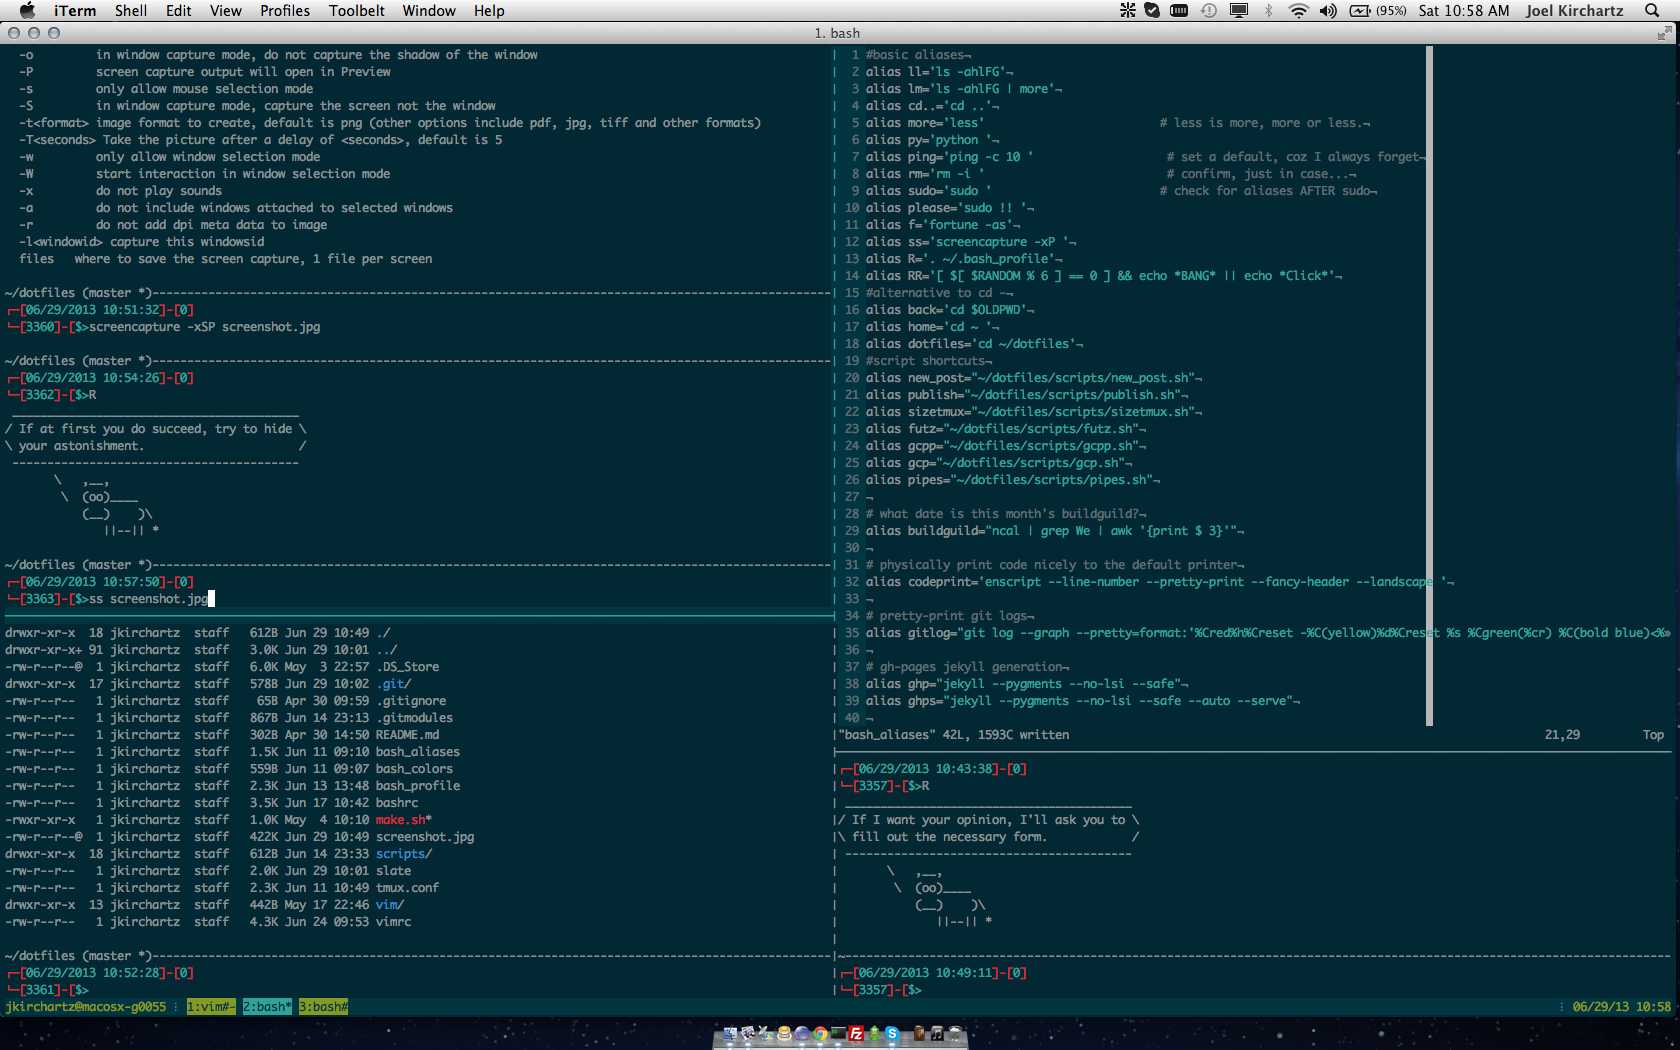
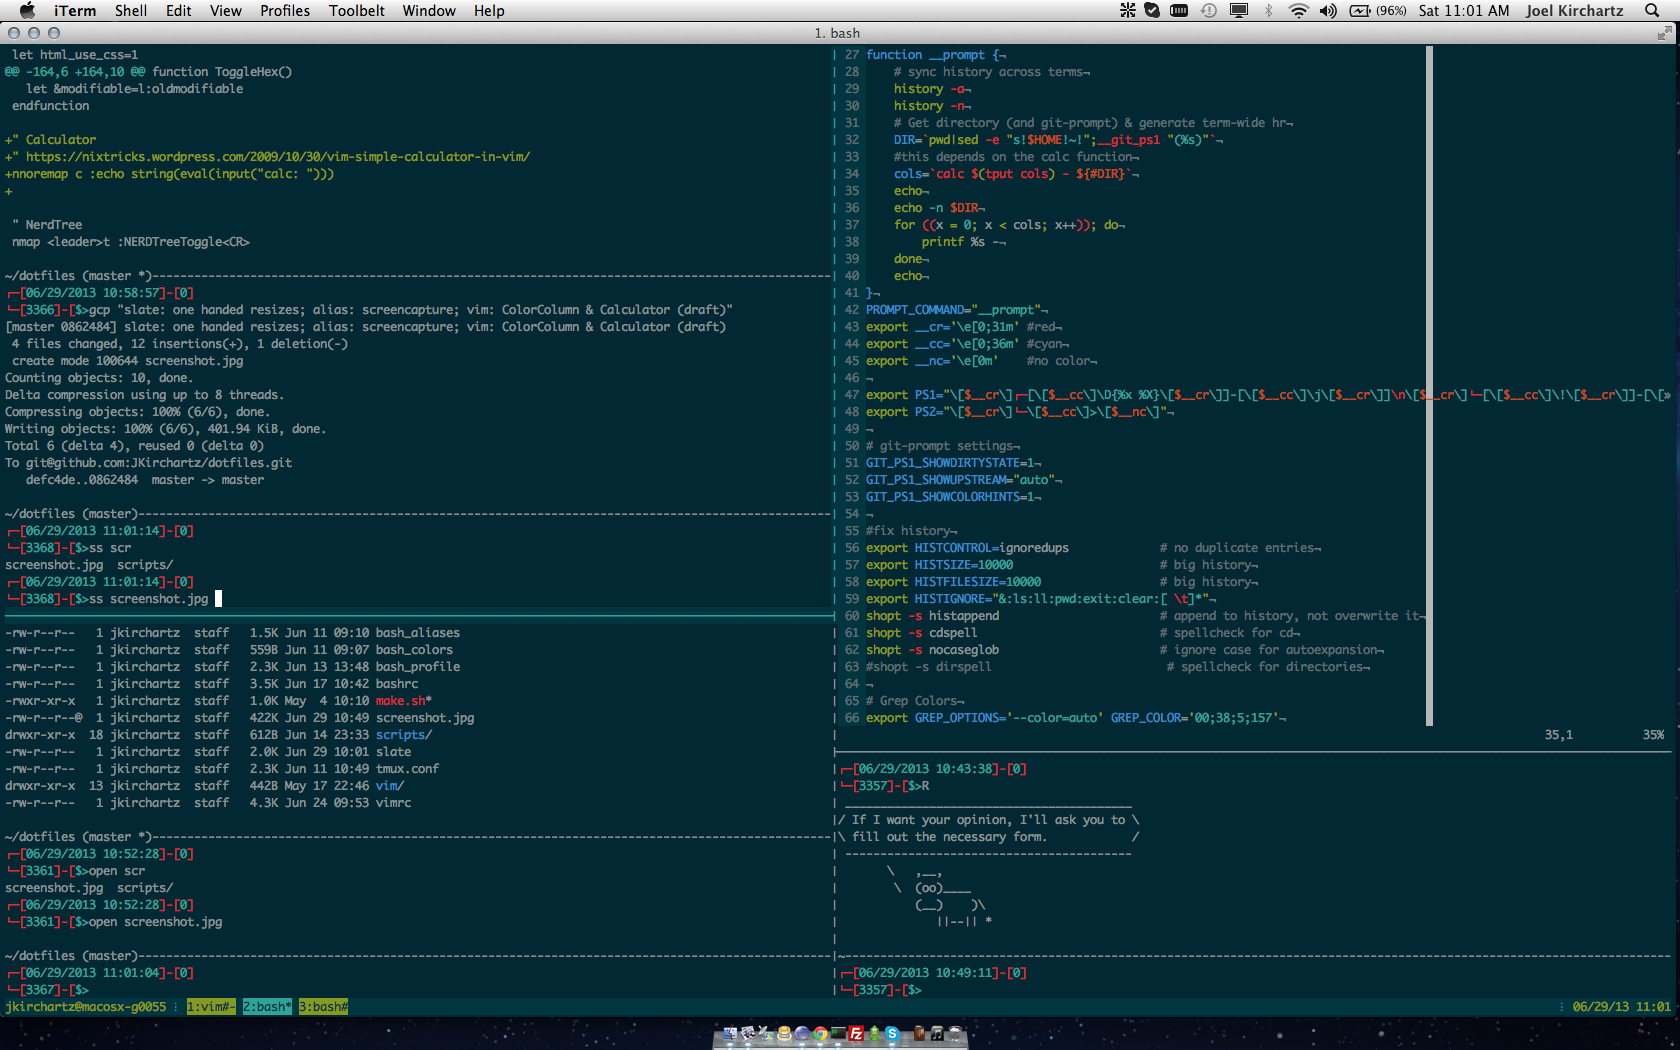
add/improve screenshot

diff --git a/README.md b/README.md
@@ -1,4 +1,3 @@
-
 #My dotfiles
 
 1. clone into home
@@ -6,10 +5,13 @@
 1. ???
 1. profit
 
-
 For the moment I'm primarily working on OSX, I like to use
 
 * [vim](http://www.vim.org)
 * [tmux](http://tmux.sourceforge.net/)
 * [bash](http://www.gnu.org/software/bash/bash.html)
 * [slate](https://github.com/jigish/slate)
+
+Here's how my terminal looks (vim/tmux/bash):
+
+![cli screenshot](https://raw.github.com/JKirchartz/dotfiles/master/screenshot.jpg)
